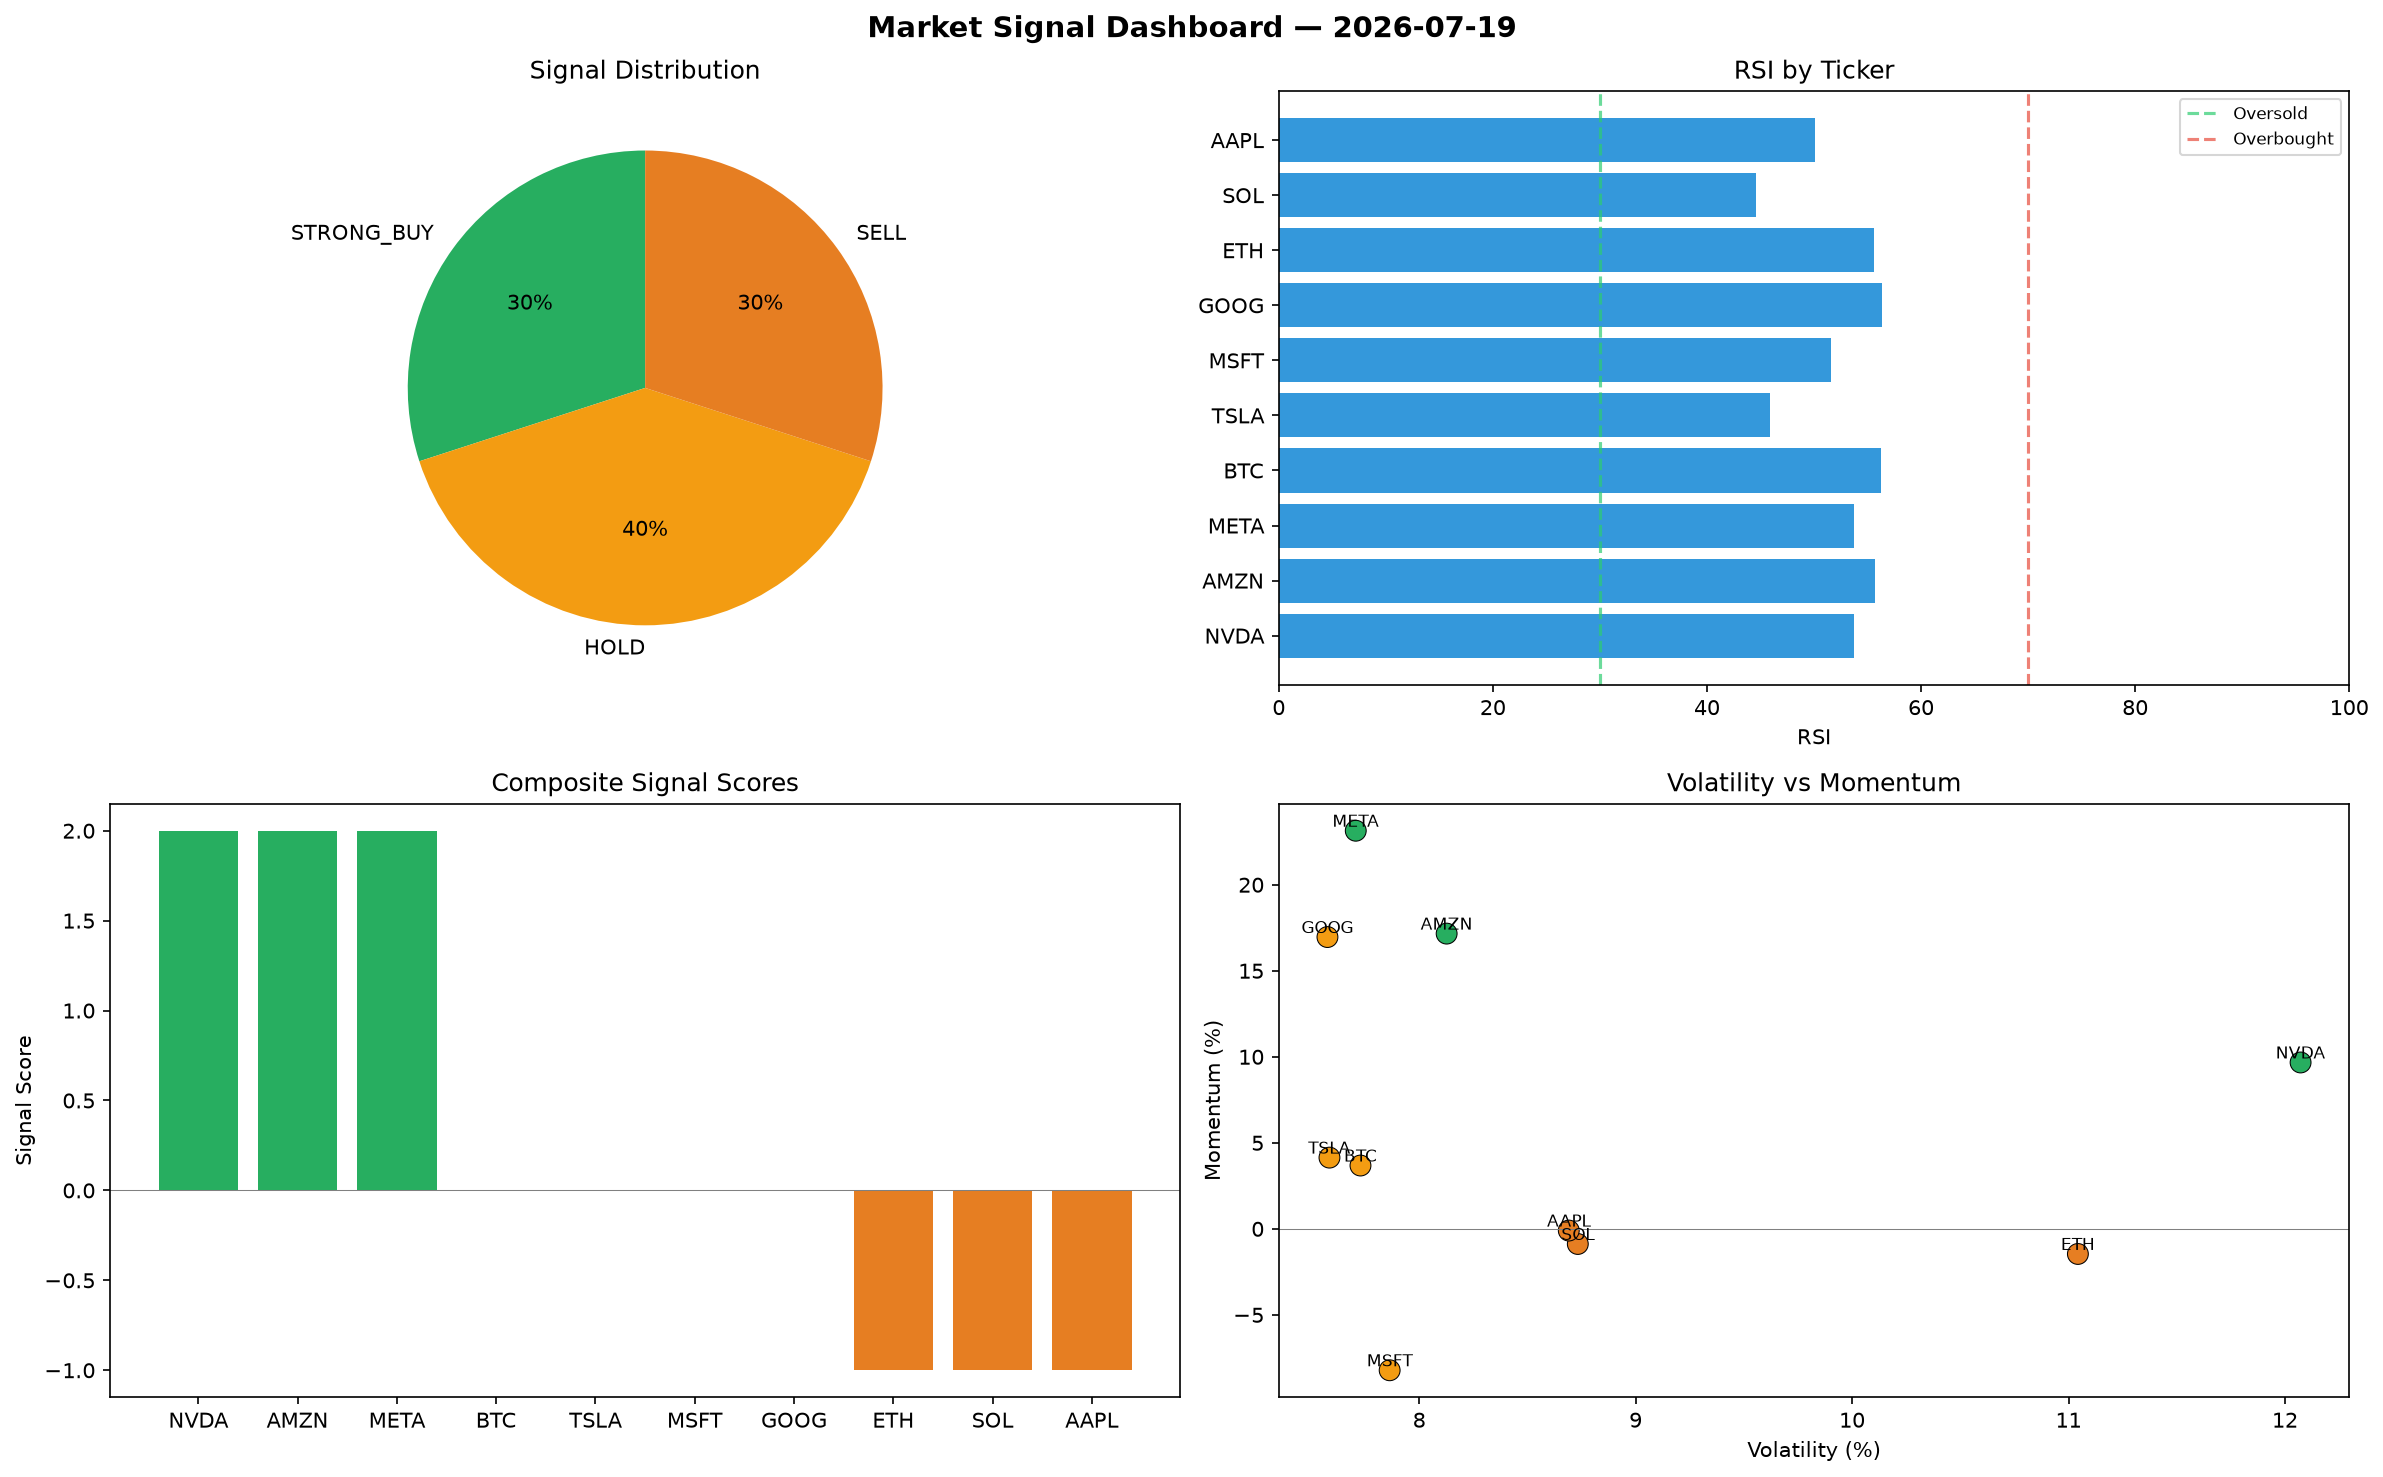
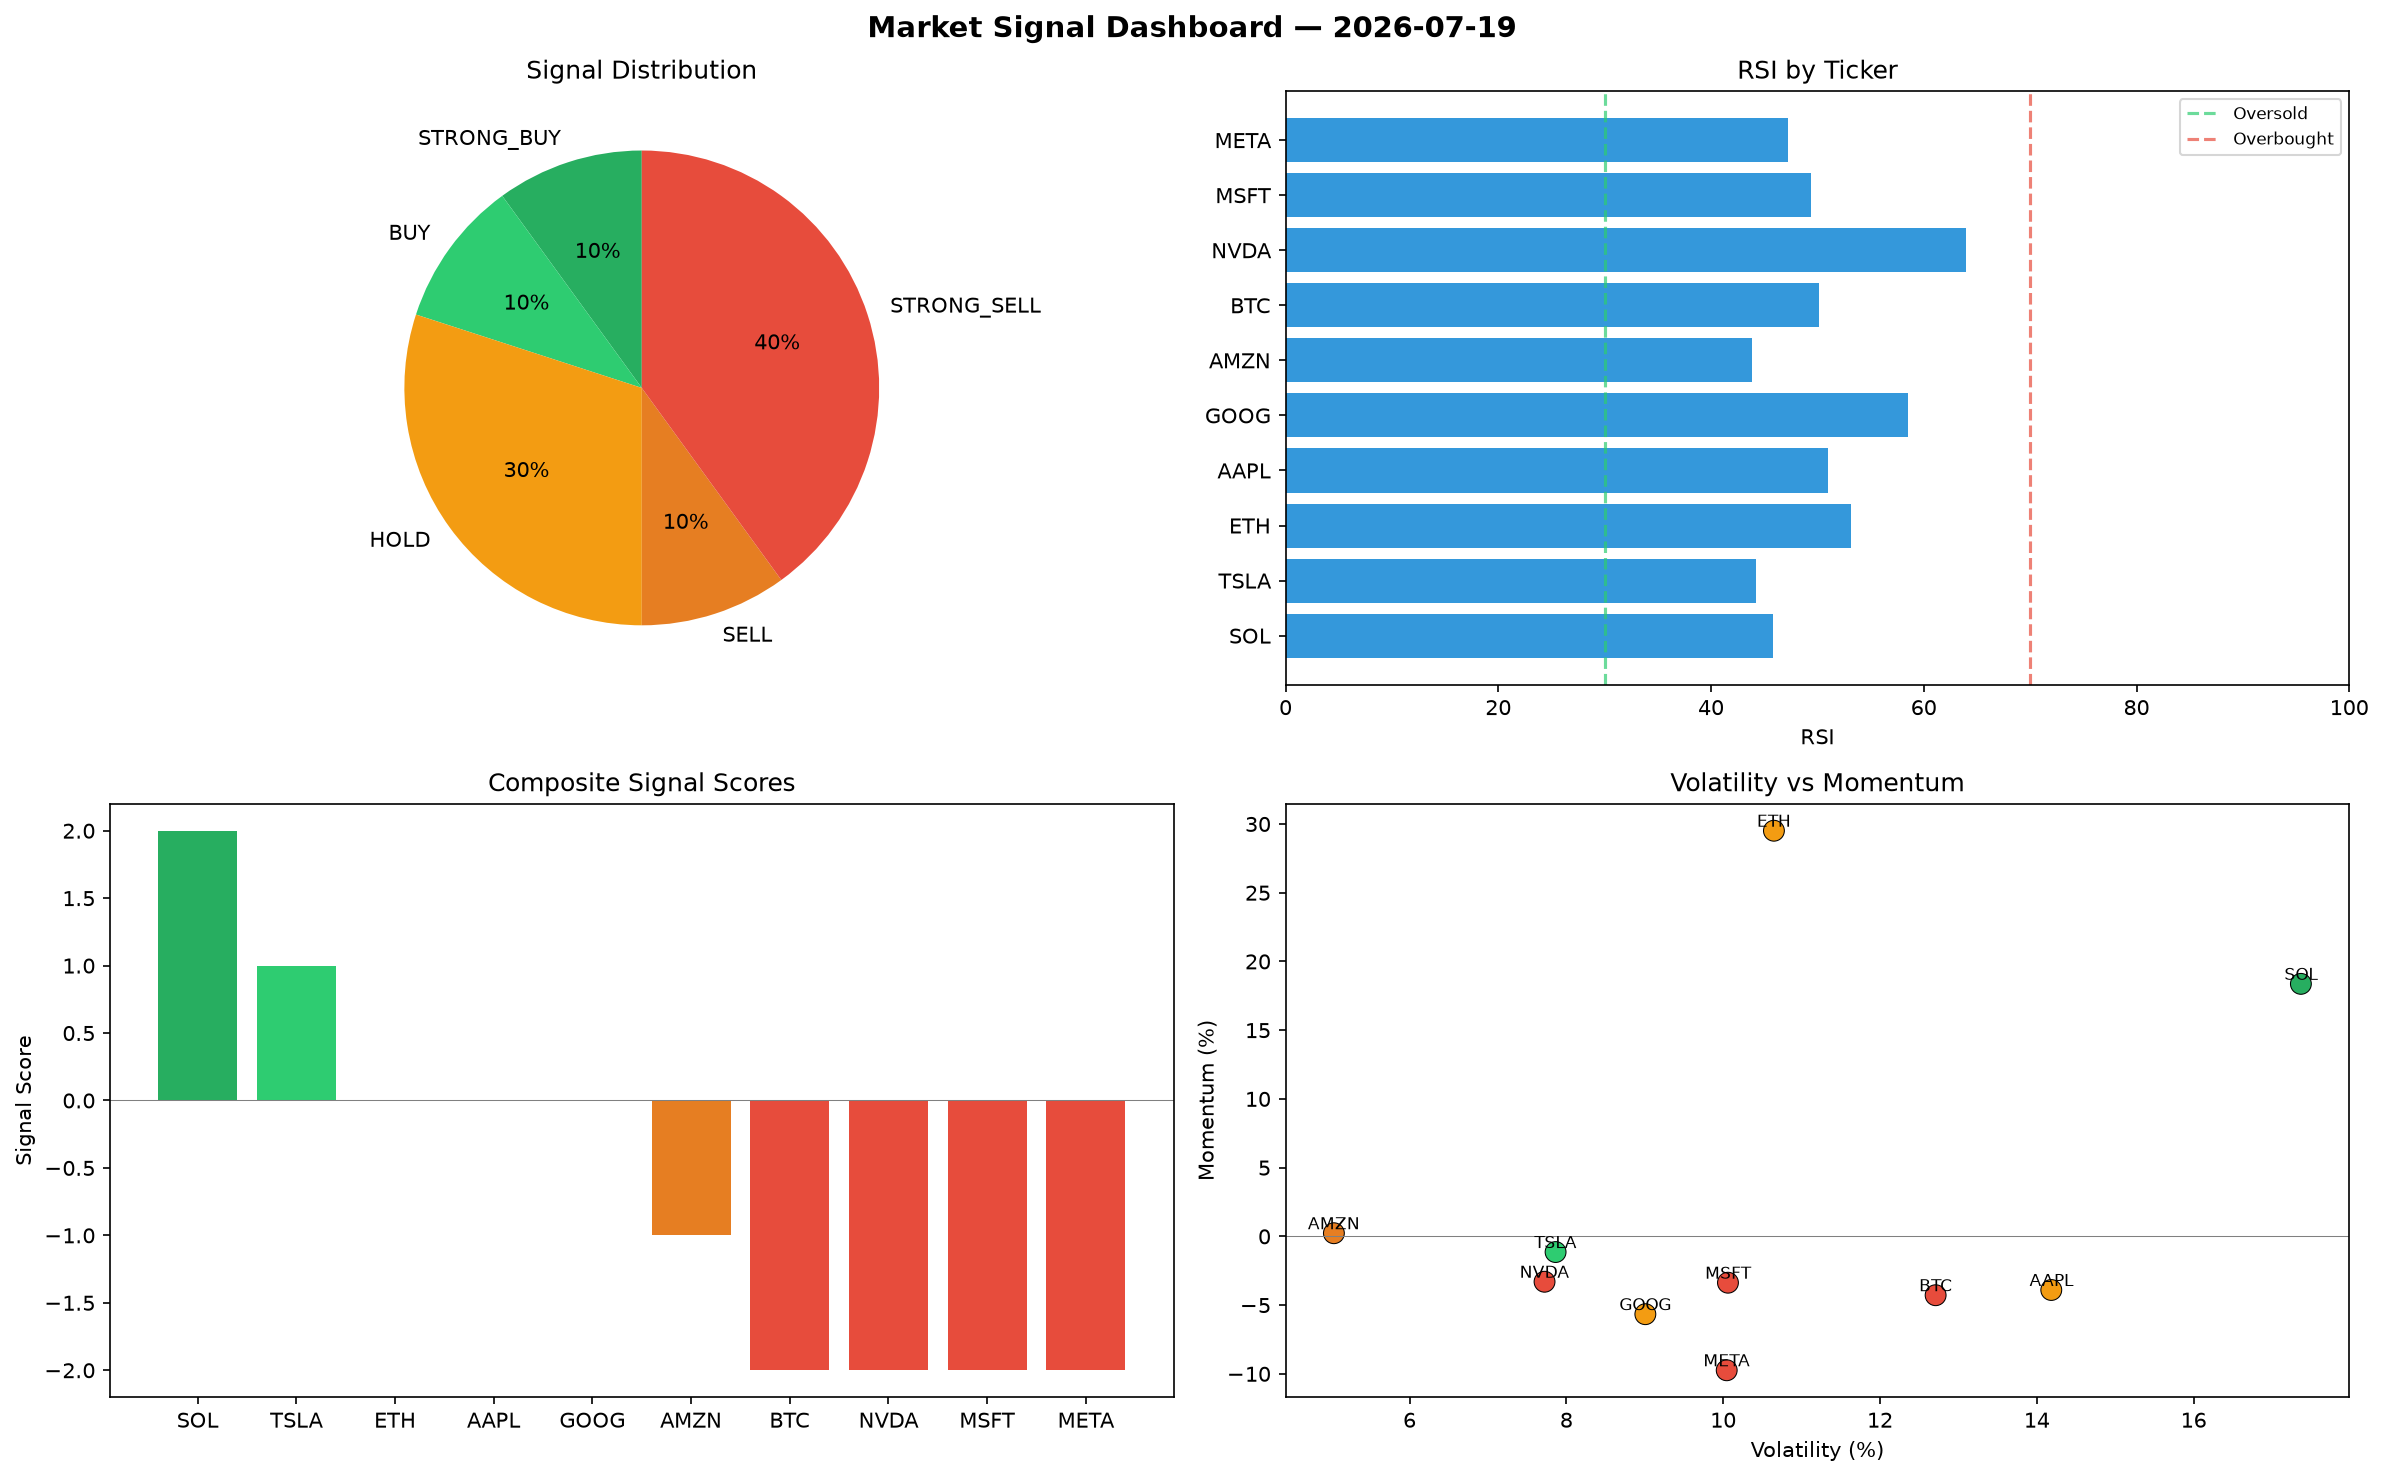
automated-bots: market signals 2026-07-19T21:11

diff --git a/logs/2026-07-19.md b/logs/2026-07-19.md
@@ -1,6 +1,6 @@
 # Market Signal Report — 2026-07-19
 
-**Run ID:** `d61195e9ee` | **Buy:** 3 | **Sell:** 3 | **Hold:** 4
+**Run ID:** `6c34672729` | **Buy:** 2 | **Sell:** 5 | **Hold:** 3
 
 ![Dashboard](2026-07-19_dashboard.png)
 
@@ -8,28 +8,28 @@
 
 | Ticker | Price | Signal | Score | RSI | Momentum | Confidence |
 |--------|-------|--------|-------|-----|----------|------------|
-| NVDA | $3696.74 | **STRONG_BUY** | 2 | 53.74 | 0.0967 | 0.5 |
-| AMZN | $1222.27 | **STRONG_BUY** | 2 | 55.72 | 0.1716 | 0.5 |
-| META | $3933.87 | **STRONG_BUY** | 2 | 53.74 | 0.2314 | 0.5 |
-| BTC | $710.09 | **HOLD** | 0 | 56.3 | 0.0368 | 0.0 |
-| TSLA | $3826.07 | **HOLD** | 0 | 45.92 | 0.0414 | 0.0 |
-| MSFT | $4643.35 | **HOLD** | 0 | 51.6 | -0.0822 | 0.0 |
-| GOOG | $4922.06 | **HOLD** | 0 | 56.35 | 0.1696 | 0.0 |
-| ETH | $2757.12 | **SELL** | -1 | 55.61 | -0.0146 | 0.25 |
-| SOL | $3152.38 | **SELL** | -1 | 44.59 | -0.0088 | 0.25 |
-| AAPL | $1546.06 | **SELL** | -1 | 50.05 | -0.001 | 0.25 |
+| SOL | $350.99 | **STRONG_BUY** | 2 | 45.8 | 0.1837 | 0.5 |
+| TSLA | $2867.01 | **BUY** | 1 | 44.19 | -0.0114 | 0.25 |
+| ETH | $3629.57 | **HOLD** | 0 | 53.18 | 0.2951 | 0.0 |
+| AAPL | $758.56 | **HOLD** | 0 | 50.98 | -0.039 | 0.0 |
+| GOOG | $1245.17 | **HOLD** | 0 | 58.53 | -0.0566 | 0.0 |
+| AMZN | $1352.82 | **SELL** | -1 | 43.87 | 0.0023 | 0.25 |
+| BTC | $2184.7 | **STRONG_SELL** | -2 | 50.13 | -0.0428 | 0.5 |
+| NVDA | $3980.54 | **STRONG_SELL** | -2 | 63.95 | -0.033 | 0.5 |
+| MSFT | $4382.63 | **STRONG_SELL** | -2 | 49.41 | -0.0337 | 0.5 |
+| META | $2241.31 | **STRONG_SELL** | -2 | 47.25 | -0.0974 | 0.5 |
 
 ## Delta vs Yesterday
 
 | Ticker | Today | Yesterday | Price Change | Signal Changed |
 |--------|-------|-----------|-------------|----------------|
-| NVDA | STRONG_BUY | HOLD | 📈 192.56% | ⚠ YES |
-| AMZN | STRONG_BUY | STRONG_SELL | 📉 -30.41% | ⚠ YES |
-| META | STRONG_BUY | SELL | 📈 31.76% | ⚠ YES |
-| BTC | HOLD | STRONG_SELL | 📉 -83.75% | ⚠ YES |
-| TSLA | HOLD | HOLD | 📉 -14.27% | — |
-| MSFT | HOLD | HOLD | 📈 100.34% | — |
-| GOOG | HOLD | STRONG_BUY | 📈 58.21% | ⚠ YES |
-| ETH | SELL | STRONG_SELL | 📈 5363.97% | ⚠ YES |
-| SOL | SELL | BUY | 📈 1926.86% | ⚠ YES |
-| AAPL | SELL | STRONG_BUY | 📉 -37.43% | ⚠ YES |
+| SOL | STRONG_BUY | BUY | 📈 125.67% | ⚠ YES |
+| TSLA | BUY | HOLD | 📉 -35.76% | ⚠ YES |
+| ETH | HOLD | STRONG_SELL | 📈 7092.96% | ⚠ YES |
+| AAPL | HOLD | STRONG_BUY | 📉 -69.3% | ⚠ YES |
+| GOOG | HOLD | STRONG_BUY | 📉 -59.98% | ⚠ YES |
+| AMZN | SELL | STRONG_SELL | 📉 -22.98% | ⚠ YES |
+| BTC | STRONG_SELL | STRONG_SELL | 📉 -49.99% | — |
+| NVDA | STRONG_SELL | HOLD | 📈 215.02% | ⚠ YES |
+| MSFT | STRONG_SELL | HOLD | 📈 89.09% | ⚠ YES |
+| META | STRONG_SELL | SELL | 📉 -24.93% | ⚠ YES |
